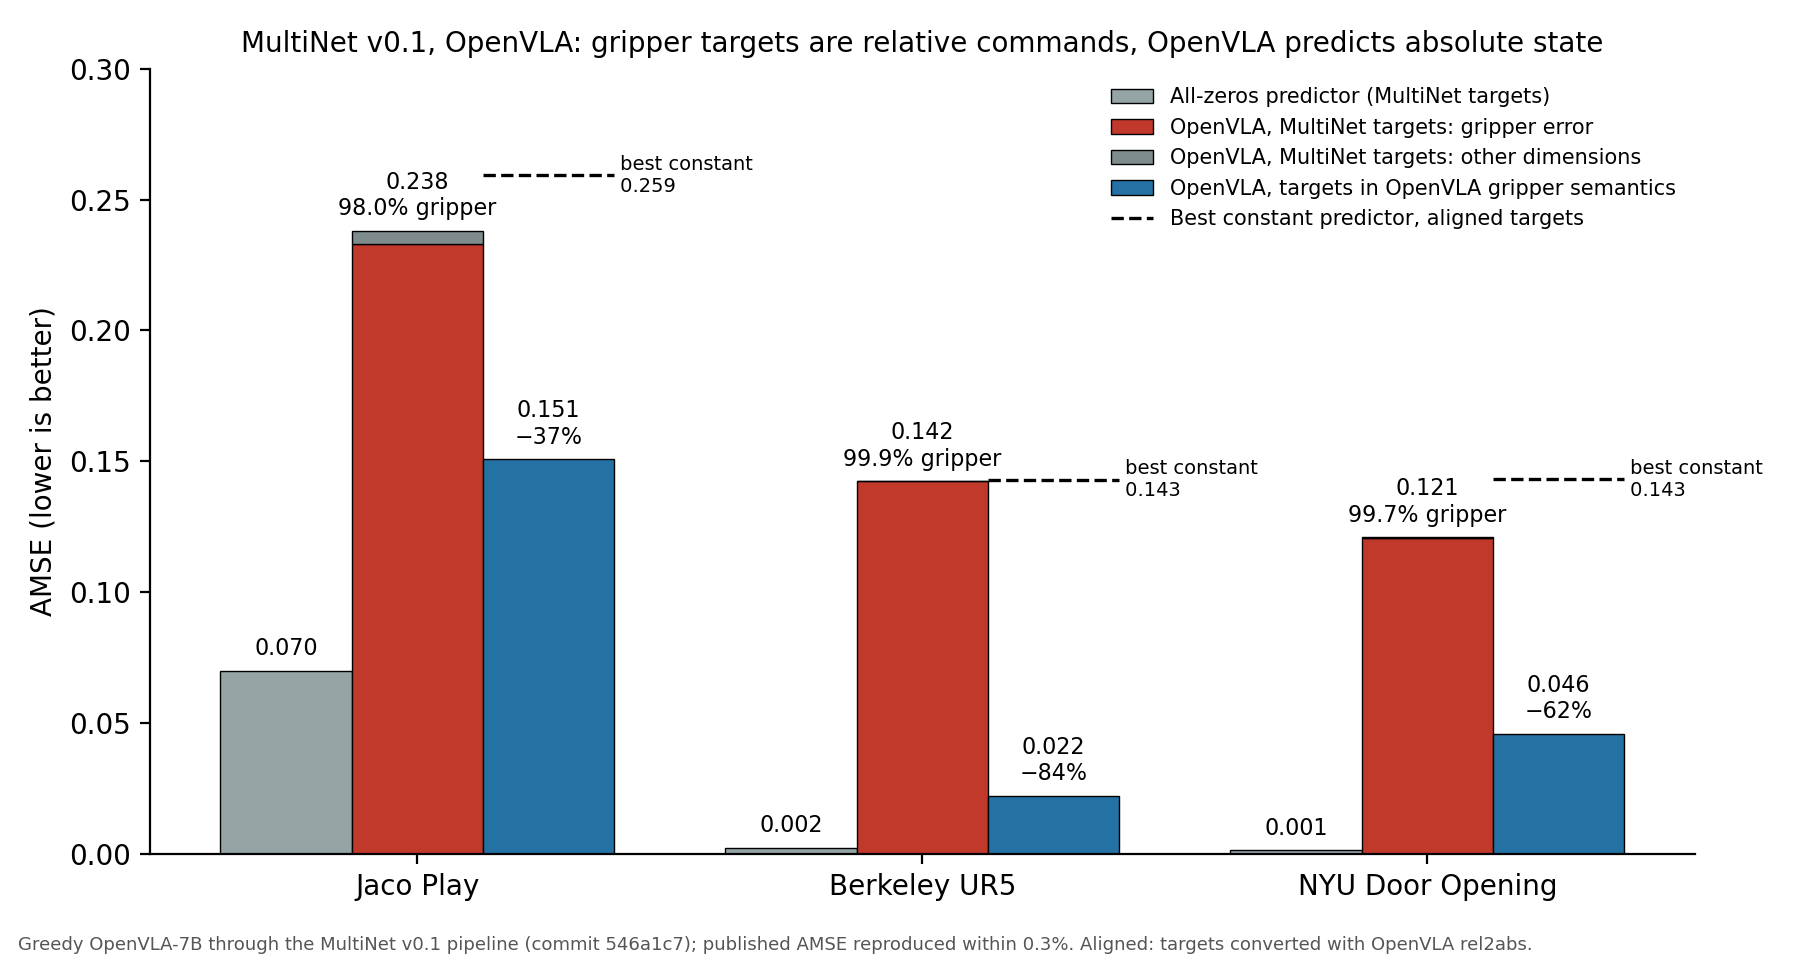
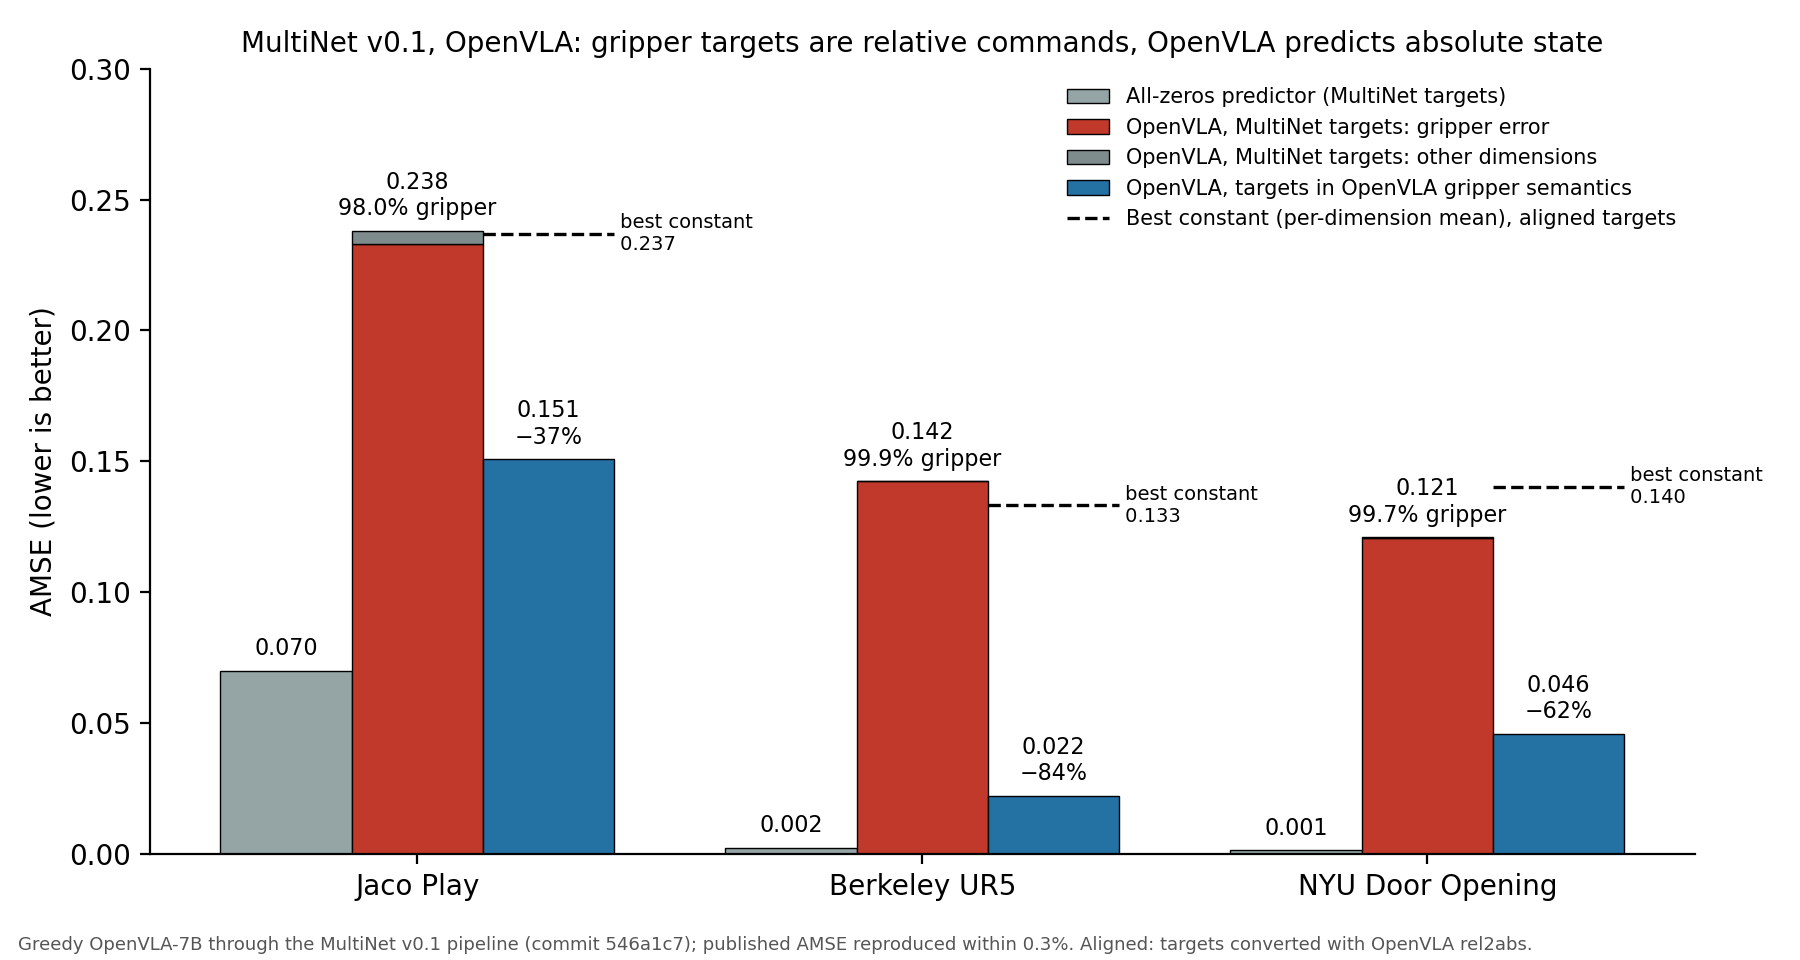
Use the per-dimension mean as best constant; report per-axis pose error against the zeros predictor

diff --git a/experiments/offline/gripper_semantics.py b/experiments/offline/gripper_semantics.py
@@ -70,9 +70,18 @@ def score(predictions, targets):
 
 
 def constants(targets):
+    """AMSE of constant predictors; `per_dimension_mean` is the MSE-optimal constant."""
+    m, dim = len(targets), len(targets[0])
+    mean = [sum(t[j] for t in targets) / m for j in range(dim)]
+    result = {name: score([[g] + [0.0] * (dim - 1)] * m, targets)['amse']
+              for name, g in (('zeros', 0.0), ('always_closed', 1.0), ('always_open', -1.0))}
+    result['per_dimension_mean'] = score([mean] * m, targets)['amse']
+    return result
+
+
+def per_dimension_mse(predictions, targets):
     dim = len(targets[0])
-    return {name: score([[g] + [0.0] * (dim - 1)] * len(targets), targets)['amse']
-            for name, g in (('zeros', 0.0), ('always_closed', 1.0), ('always_open', -1.0))}
+    return [sum((p[j] - t[j]) ** 2 for p, t in zip(predictions, targets)) / len(targets) for j in range(dim)]
 
 
 def observed_states(values, threshold):
@@ -129,10 +138,16 @@ def report(path):
         'timesteps': len(rows), 'target_dim': len(original[0]),
         'no_change_target_share': no_change,
         'predicted_gripper_values': predicted_gripper_values[:10],
+        'per_dimension_mse_multinet_targets': {
+            **{m: per_dimension_mse(p, original) for m, p in methods.items()},
+            'zeros': per_dimension_mse([[0.0] * len(original[0])] * len(rows), original)},
         'multinet_targets': {m: score(p, original) for m, p in methods.items()},
         'openvla_semantics_targets': {m: score(p, corrected) for m, p in methods.items()},
         'constant_predictors': {'multinet_targets': constants(original),
                                 'openvla_semantics_targets': constants(corrected)},
+        'per_dimension_mse_multinet_targets': {
+            **{m: per_dimension_mse(p, original) for m, p in methods.items()},
+            'zeros': per_dimension_mse([[0.0] * len(original[0])] * len(rows), original)},
     }
 
 

diff --git a/experiments/offline/plot_gripper_audit.py b/experiments/offline/plot_gripper_audit.py
@@ -30,7 +30,7 @@ def main():
         original = r['multinet_targets']['openvla_greedy']
         aligned = r['openvla_semantics_targets']['openvla_greedy']
         zeros = r['constant_predictors']['multinet_targets']['zeros']
-        best_constant = min(r['constant_predictors']['openvla_semantics_targets'].values())
+        best_constant = r['constant_predictors']['openvla_semantics_targets']['per_dimension_mean']
         x0, x1, x2 = i - width, i, i + width
 
         ax.bar(x0, zeros, width, color=ZEROS, edgecolor='black', linewidth=0.5)
@@ -65,7 +65,7 @@ def main():
     ]
     labels = ['All-zeros predictor (MultiNet targets)', 'OpenVLA, MultiNet targets: gripper error',
               'OpenVLA, MultiNet targets: other dimensions', 'OpenVLA, targets in OpenVLA gripper semantics',
-              'Best constant predictor, aligned targets']
+              'Best constant (per-dimension mean), aligned targets']
     ax.legend(handles, labels, fontsize=7.5, loc='upper right', frameon=False)
     ax.spines[['top', 'right']].set_visible(False)
     fig.text(0.01, 0.01, 'Greedy OpenVLA-7B through the MultiNet v0.1 pipeline (commit 546a1c7); '

diff --git a/tests/test_gripper_semantics.py b/tests/test_gripper_semantics.py
@@ -43,8 +43,12 @@ class GripperSemanticsTest(unittest.TestCase):
         states = gs.observed_states([0.0, 1.0, 1.0], 0.5)
         self.assertEqual(gs.state_to_command(predictions, states), [[1, 0.5], [0, 0.5], [-1, 0.5]])
 
-    def test_constant_zero_predictor(self):
-        self.assertAlmostEqual(gs.constants([[1, 0.0], [0, 0.0]])['zeros'], 1 / 2 / 2)
+    def test_constant_predictors(self):
+        result = gs.constants([[1, 0.0], [0, 0.0]])
+        self.assertAlmostEqual(result['zeros'], 1 / 2 / 2)
+        # Per-dimension mean is the MSE-optimal constant: (0.5^2 + 0.5^2) / 2 points / 2 dims.
+        self.assertAlmostEqual(result['per_dimension_mean'], 0.25 / 2)
+        self.assertLessEqual(result['per_dimension_mean'], min(result.values()))
 
 
 if __name__ == '__main__':

diff --git a/docs/MULTINET_AUDIT.md b/docs/MULTINET_AUDIT.md
@@ -81,7 +81,7 @@ statistics computed, no model run; *code* = from code and descriptions only.
 | Gripper share of OpenVLA's AMSE | 98.0% | 99.9% | 99.7% |
 | All-zeros predictor, MultiNet targets | 0.0699 | 0.0023 | 0.0013 |
 | Fix 1: OpenVLA AMSE, targets converted to states | 0.1508 (-37%) | 0.0222 (-84%) | 0.0458 (-62%) |
-| Best constant on the converted targets | 0.2592 | 0.1430 | 0.1431 |
+| Best constant (per-dimension mean) on the converted targets | 0.2370 | 0.1332 | 0.1402 |
 | Fix 2: OpenVLA states converted to commands, MultiNet targets | 0.0709 (-70%) | 0.0190 (-87%) | not possible |
 | Observed gripper state used by fix 2 | finger joint `joint_pos[6]` > 0.741 | `robot_state[13]` (`gripper_is_closed`) | none in observations |
 
@@ -95,6 +95,19 @@ has no binary gripper flag; the finger joint is binarized at the midpoint of its
 `end_effector_cartesian_pos[6]` field that OpenVLA reads as proprioceptive gripper state does not
 respond to gripper commands in this split and was not used. NYU Door Opening observations contain
 no robot state, so only fix 1 applies. All other dimensions are unchanged in both fixes.
+
+"Best constant" is the MSE-optimal constant predictor, the per-dimension mean of the targets. On
+MultiNet's original targets it scores 0.0694 / 0.0023 / 0.0012, marginally below the all-zeros
+predictor.
+
+Pose dimensions. The gap between OpenVLA and the all-zeros predictor is carried by the gripper:
+pose dimensions account for -2.6%, -0.02% and +0.04% of that gap (Jaco, UR5, NYU Door) and for
+2.0%, 0.05% and 0.27% of OpenVLA's AMSE. Per axis, OpenVLA's pose error is below the all-zeros
+predictor on all three Jaco axes (XYZ; the Jaco target has no rotation) and on 5 of 6 UR5 axes
+(roll: 1.11x the zeros error). On NYU Door Opening, a dataset outside OpenVLA's training mixture,
+its pose error is 1.15x that of the zeros predictor in total (worse on pitch, yaw and x). So the
+anomaly is isolated to the gripper in magnitude, but OpenVLA does not beat the zeros predictor on
+every pose axis.
 
 GPT-4o and JAT cannot be re-scored: their per-step predictions are not available, although their
 published Jaco AMSE (0.288, 1.237) is also above the all-zeros predictor (0.070).
